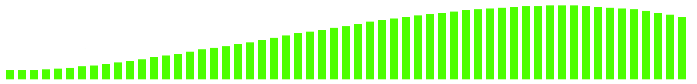
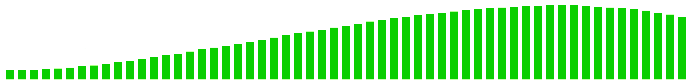
added pallete, redid colors. life bar working on new UI

diff --git a/states/load_state.js b/states/load_state.js
@@ -9,40 +9,42 @@ var load_state = {
     game.load.setPreloadSprite(this.progress_bar);
 
     //HACK TO PRELOAD A CUSTOM FONT first font will always be funky
-    Utils.create_centered_stroke_text("LOADING", game.height/2 , 50, "#FFFFFF");
+    Utils.create_centered_stroke_text("LOADING", game.height/2 , 50);
+
+    var assets_path = '/assets/'
+    var images_path = assets_path + 'images/';
 
     //game.load.audio('mm_xanadont_song', 'assets/music/Mystery_Mammal_Xanadont.ogg');
 
-    game.load.image('player', 'assets/images/mecha.png');
-    game.load.image('player_bullet', 'assets/images/player_bullet.png');
-    game.load.image('flame', 'assets/images/flame.png');
-    game.load.image('turret_top_blue', 'assets/images/turret_top_blue.png');
-    game.load.image('turret_base_blue', 'assets/images/turret_base_blue.png');
-    game.load.image('turret_top_red', 'assets/images/turret_top_red.png');
-    game.load.image('turret_base_red', 'assets/images/turret_base_red.png');
-    game.load.image('shield', 'assets/images/shield.png');
-    game.load.image('circle', 'assets/images/circle.png');
-    game.load.image('spinner', 'assets/images/spinner.png');
-    game.load.image('x', 'assets/images/x.png');
-    game.load.image('enemy_bullet', 'assets/images/enemy_bullet.png');
-    game.load.image('sound_white', 'assets/images/sound_white.png');
-    game.load.image('no', 'assets/images/no.png');
-    game.load.image('powerup_p', 'assets/images/powerup_p.png');
-    game.load.image('level_progress', 'assets/images/level_progress.png');
+    game.load.image('player', images_path + 'mecha.png');
+    game.load.image('player_bullet', assets_path + 'images/player_bullet.png');
+    game.load.image('flame', images_path + 'flame.png');
+    game.load.image('turret_top_blue', images_path + 'turret_top_blue.png');
+    game.load.image('turret_base_blue', images_path + 'turret_base_blue.png');
+    game.load.image('turret_top_red', images_path + 'turret_top_red.png');
+    game.load.image('turret_base_red', images_path + 'turret_base_red.png');
+    game.load.image('shield', images_path + 'shield.png');
+    game.load.image('circle', images_path + 'circle.png');
+    game.load.image('spinner', images_path + 'spinner.png');
+    game.load.image('x', images_path + 'x.png');
+    game.load.image('enemy_bullet', images_path + 'enemy_bullet.png');
+    game.load.image('sound_white', images_path + 'sound_white.png');
+    game.load.image('no', images_path + 'no.png');
+    game.load.image('powerup_p', images_path + 'pat_powerup_2.png');
 
-    game.load.image('main_menu_background', 'assets/images/main_menu_background.png');
-    game.load.image('score_bg', 'assets/images/score_bg.png');
-    game.load.image('life_bg', 'assets/images/life_bg.png');
-    game.load.image('remaining_enemies_bg', 'assets/images/remaining_enemies_bg.png');
-    game.load.image('pixel_planet', 'assets/images/pixel_planet.jpg');
-    game.load.image('ui_background', 'assets/images/ui_background.png');
-    game.load.image('game_background', 'assets/images/game_background.png');
-    game.load.image('remaining_enemies_bar_green', 'assets/images/remaining_enemies_bar_green.png');
-    game.load.image('remaining_enemies_black_bar', 'assets/images/remaining_enemies_black_bar.png');
-    game.load.image('pat_bg', 'assets/images/pat_bg.png');
-    game.load.image('pink_rect_filled', 'assets/images/pink_rect_filled.png');
-    game.load.image('pink_rect_empty', 'assets/images/pink_rect_empty.png');
-    game.load.image('dashboard', 'assets/images/dashboard.png');
+    game.load.image('main_menu_background', images_path + 'main_menu_background.png');
+
+    game.load.image('life_bar_single', images_path + 'life_bar_single.png');
+    game.load.image('remaining_enemies_bg', images_path + 'remaining_enemies_bg.png');
+    game.load.image('pixel_planet', images_path + 'pixel_planet.jpg');
+
+    game.load.image('game_background', images_path + 'game_background.png');
+    game.load.image('remaining_enemies_bar_green', images_path + 'remaining_enemies_bar_green.png');
+    game.load.image('remaining_enemies_black_bar', images_path + 'remaining_enemies_black_bar.png');
+    game.load.image('pat_bg', images_path + 'pat_bg.png');
+    game.load.image('pink_rect_filled', images_path + 'pink_rect_filled.png');
+    game.load.image('pink_rect_empty', images_path + 'pink_rect_empty.png');
+    game.load.image('dashboard', images_path + 'dashboard.png');
 
     game.load.json('red_explosion', 'assets/particles/red_explosion.json');
     game.load.json('blue_explosion', 'assets/particles/blue_explosion.json');

diff --git a/states/menu_state.js b/states/menu_state.js
@@ -1,25 +1,25 @@
 var menu_state = {
   create: function() {
     var background_sprite = game.add.tileSprite(0, 0, 1400, 900, 'pat_bg');
-    var title_text = Utils.create_centered_stroke_text('SUPER', 110, 100, "#FF0000");
+    var title_text = Utils.create_centered_stroke_text('SUPER', 110, 100, RED_HEX_COLOR);
     var title_text_old_x = title_text.x;
     title_text.x = 0;
     title_text.setShadow(-5, 5, 'rgba(0,0,0,0.5)', 0);
     game.add.tween(title_text).to({ x: title_text_old_x}, 300, "Linear", true);
 
-    var title_text1 = Utils.create_centered_stroke_text('STARKILLER', 220, 100, "#FF0000");
+    var title_text1 = Utils.create_centered_stroke_text('STARKILLER', 220, 100, RED_HEX_COLOR);
     var title_text1_old_x = title_text1.x;
     title_text1.x = game.world.width;
     title_text1.setShadow(-5, 5, 'rgba(0,0,0,0.5)', 0);
     game.add.tween(title_text1).to({ x: title_text1_old_x}, 300, "Linear", true);
 
-    // var title_text2 = Utils.create_centered_stroke_text('', 330, 100, "#FF0000");
+    // var title_text2 = Utils.create_centered_stroke_text('', 330, 100, RED_HEX_COLOR);
     // var title_text2_old = title_text2.x;
     // title_text2.x = 0;
     // title_text2.setShadow(-5, 5, 'rgba(0,0,0,0.5)', 0);
     // game.add.tween(title_text2).to({ x: title_text2_old}, 300, "Linear", true);
 
-    var title_text3 = Utils.create_centered_stroke_text('3000', 330, 100, "#FF0000");
+    var title_text3 = Utils.create_centered_stroke_text('3000', 330, 100, RED_HEX_COLOR);
     var title_text3_old = title_text3.y;
     title_text3.y = 0;
     title_text3.setShadow(-5, 5, 'rgba(0,0,0,0.5)', 0);

diff --git a/ui/health_bar.js b/ui/health_bar.js
@@ -1,17 +1,20 @@
-const HEALTHBAR_BASE_POSITION_X = 162;
+const HEALTHBAR_BASE_POSITION_X = 96;
 const HEALTHBAR_BASE_POSITION_Y = 750;
 
 class HealthBar {
   constructor(player) {
     this.player = player;
-    this.background = game.add.sprite(HEALTHBAR_BASE_POSITION_X, HEALTHBAR_BASE_POSITION_Y, "life_bg");
-    this.background.anchor.setTo(0.5, 0.5);
+
+    this.life_text = game.add.text(HEALTHBAR_BASE_POSITION_X + 50, HEALTHBAR_BASE_POSITION_Y - 43, "LIFE", {
+      font: "16px prstart",
+      fill: "#FFFFFF",
+      align: "center"
+    });
+
     this.display_sprites = [];
 
     for(var i = 0; i < this.player.sprite.maxHealth; i++) {
-      var sprite = game.add.sprite((HEALTHBAR_BASE_POSITION_X - 72) + 50 * i, HEALTHBAR_BASE_POSITION_Y, 'player');
-      sprite.scale.setTo(0.2, 0.2);
-      sprite.anchor.x = 0.5;
+      var sprite = game.add.sprite(HEALTHBAR_BASE_POSITION_X, HEALTHBAR_BASE_POSITION_Y + (36 * i), 'life_bar_single');
       sprite.anchor.y = 0.5;
       sprite.visible = true;
       this.display_sprites.push(sprite);
@@ -28,6 +31,6 @@ class HealthBar {
 
   destroy() {
     this.display_sprites.forEach(function(element) { element.destroy(); } )
-    this.background.destroy();
+    this.life_text.destroy();
   }
 }

diff --git a/states/ready_state.js b/states/ready_state.js
@@ -15,9 +15,9 @@ var ready_state = {
       this.create_score_label();
     }
 
-    Utils.create_centered_stroke_text('ELIMINATE ALL\nDEFENSIVE FORCES', 100, 50, "#FF0000");
+    Utils.create_centered_stroke_text('ELIMINATE ALL\nDEFENSIVE FORCES', 100, 50, RED_HEX_COLOR);
 
-    Utils.create_centered_stroke_text('CLICK TO INITIATE\nWARP', 700, 50, "#FF0000");
+    Utils.create_centered_stroke_text('CLICK TO INITIATE\nWARP', 700, 50, RED_HEX_COLOR);
 
     var circle_button = game.add.graphics(0, 0);
     circle_button.beginFill(0xFFFFFF, 1);

diff --git a/states/post_game_state.js b/states/post_game_state.js
@@ -2,7 +2,7 @@ var post_game_state = {
   create: function() {
     game.stage.backgroundColor = '#000000';
 
-    Utils.create_centered_text('You\nDied', 200, 70, '#FF0000');
+    Utils.create_centered_text('You\nDied', 200, 70, RED_HEX_COLOR);
     Utils.create_centered_text('but you scored ' + last_score + ' points.', 400, 40);
     this.create_submit_score_button();
     this.create_play_again_button();

diff --git a/ui/score.js b/ui/score.js
@@ -11,7 +11,7 @@ class Score {
 
     this.score_label = game.add.text(SCORE_BASE_POSITION_X, SCORE_BASE_POSITION_Y, this.create_score_label(), {
       font: "42px prstart",
-      fill: "#4CFF00",
+      fill: GREEN_HEX_COLOR,
       align: "center",
       fontWeight: "italic"
     });

diff --git a/utils.js b/utils.js
@@ -1,3 +1,6 @@
+const RED_HEX_COLOR = '#FD0006'
+const GREEN_HEX_COLOR = '#0ACF00'
+
 class Utils {
   static create_text(text, x, y, px=20, color="#FFFFFF") {
     var label = game.add.text(x, y, text, {
